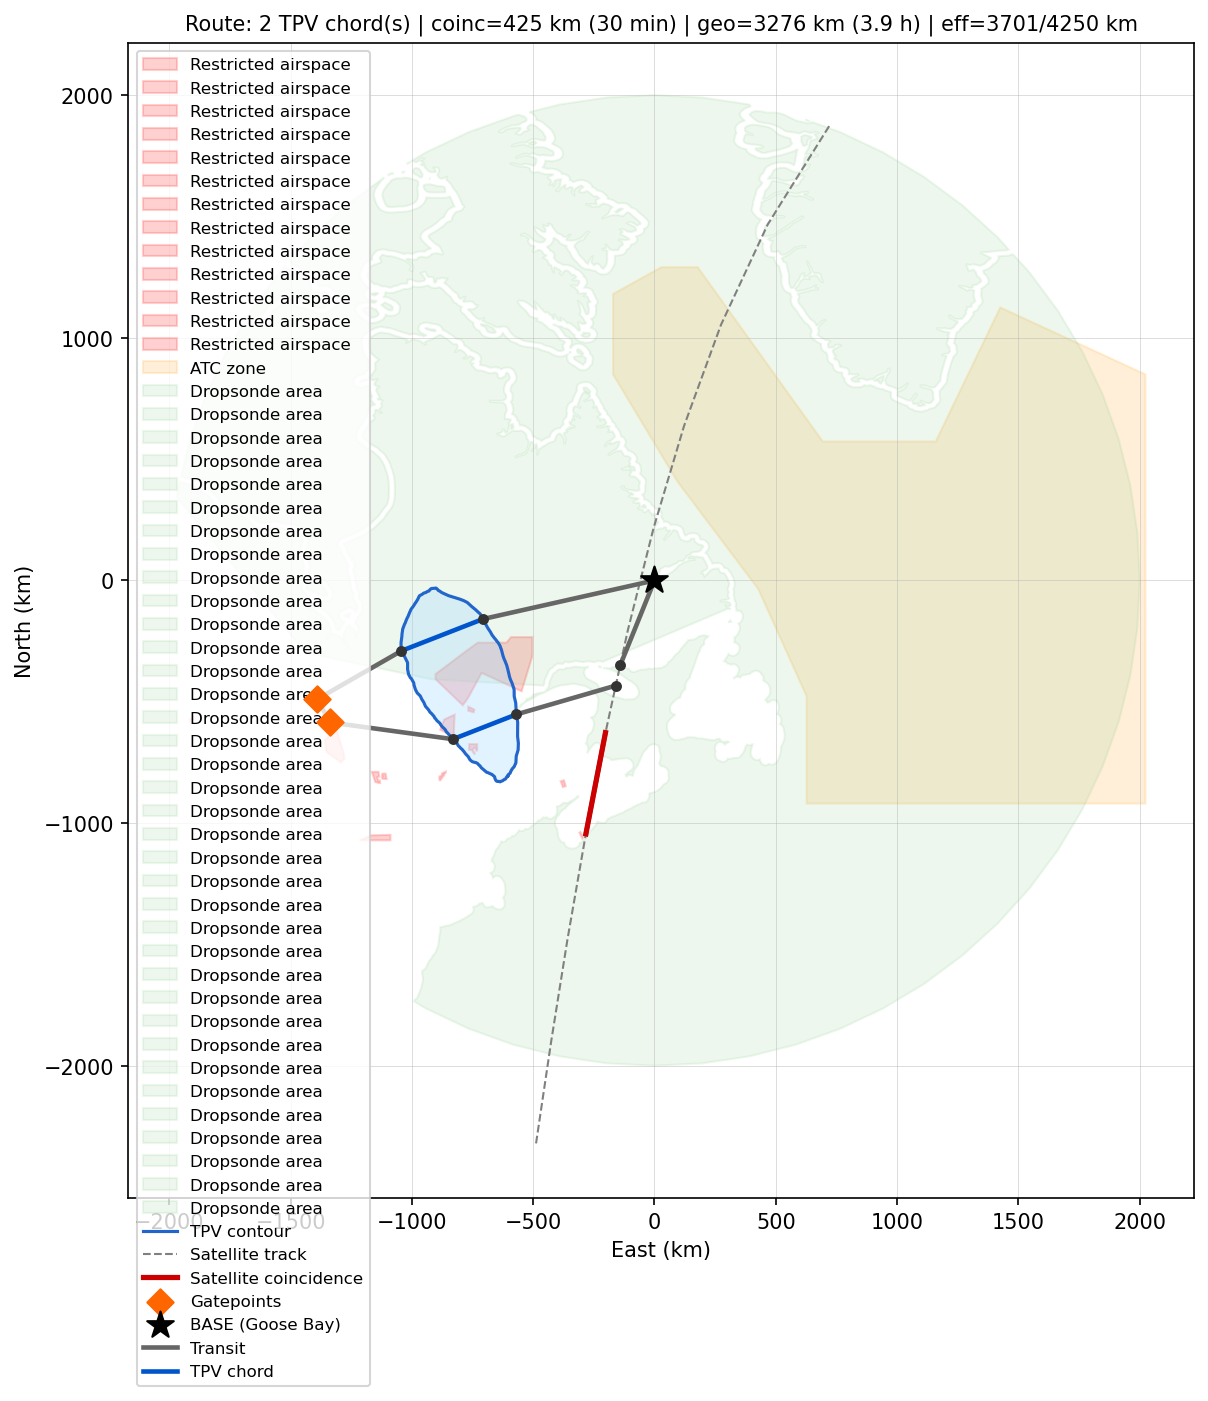
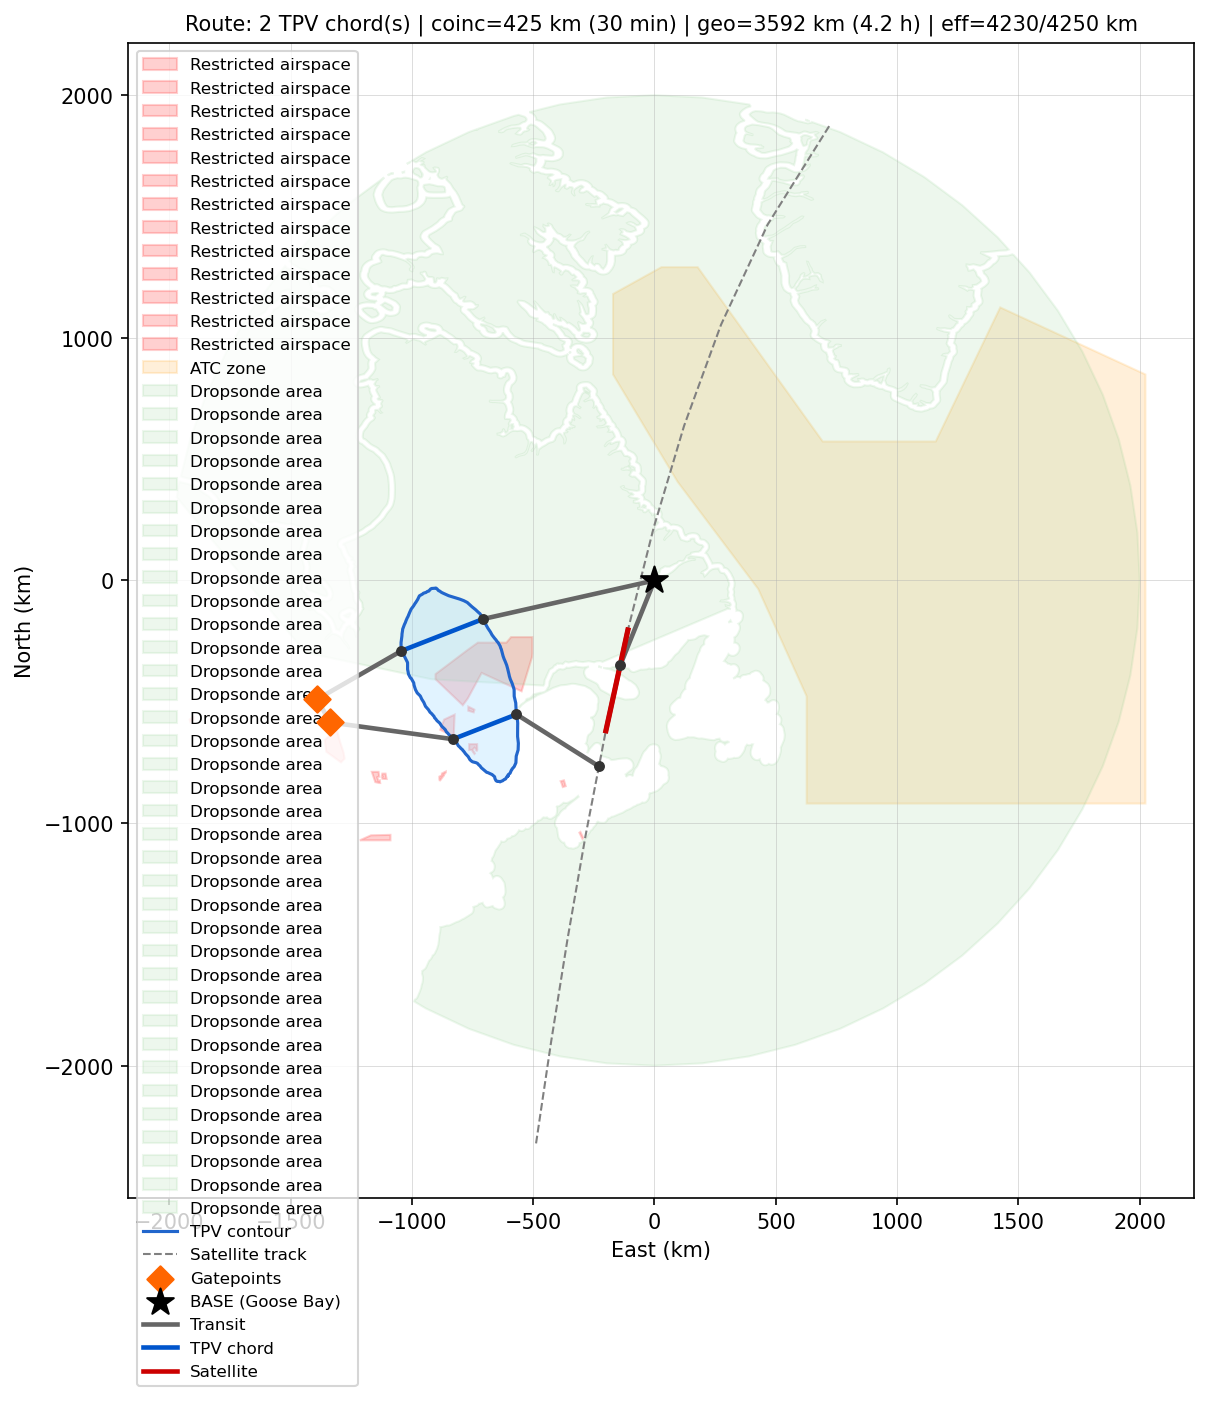
Fix Method A: rebuild full route for each extended satellite arc
Previously Method A only checked budget_remaining without recomputing
the transit from the new exit point back to BASE or the turn count.
This caused severely wrong results (showed 549 km budget remaining,
but the true remaining after correct rebuild is only 20 km).

Fixes:
- find_best_route_field now returns best_stop_list
- extend_satellite_arc: fix np.zeros(2) -> base bug; each longer arc
  calls build_route_field so exit transit and turns are recomputed
- main() uses extend_satellite_arc instead of the simplified check

Correct result: geo=3592 km (4.23 h), eff=4230/4250 km, 6 turns,
coinc=425 km (30 min), dropsonde=1800 km (127 min)

diff --git a/plan_route_field.py b/plan_route_field.py
@@ -408,6 +408,7 @@ def find_best_route_field(base, chords, gatepoints_km, sat_cands,
 
     best = None; best_n = 0; best_coinc = -1.0; best_total = 1e18
     best_sat_entry_key = None
+    best_stop_list = None
 
     for n in range(min(len(chords), max_n), 0, -1):
         found = False
@@ -450,8 +451,9 @@ def find_best_route_field(base, chords, gatepoints_km, sat_cands,
                     approx += rc
                     if approx > TOTAL_BUDGET_KM: continue
 
+                    ordered = [all_stops[k] for k in perm]
                     r = build_route_field(
-                        base, [all_stops[k] for k in perm], T_sat_h,
+                        base, ordered, T_sat_h,
                         full_nodes, sp_full, prev_full, node_key, n_static,
                         TOTAL_BUDGET_KM, AIRCRAFT_SPEED_KMH, TURN_PENALTY_KM)
                     if r and r['feasible']:
@@ -463,18 +465,23 @@ def find_best_route_field(base, chords, gatepoints_km, sat_cands,
                             best_total = r['total_dist']
                             best = r; best_n = n; found = True
                             best_sat_entry_key = tuple(np.round(pa, 3))
+                            best_stop_list = ordered
         if found:
-            return best, best_n, best_sat_entry_key
-    return None, 0, None
+            return best, best_n, best_sat_entry_key, best_stop_list
+    return None, 0, None, None
 
 
 # ── Method A: post-hoc satellite arc extension ────────────────────────────────
 def extend_satellite_arc(best_route, best_stop_list, sat_arc_variants,
-                         sat_entry_key, T_sat_h,
+                         sat_entry_key, T_sat_h, base,
                          full_nodes, sp_full, prev_full, node_key, n_static,
                          TOTAL_BUDGET_KM, AIRCRAFT_SPEED_KMH, TURN_PENALTY_KM):
-    """Replace the satellite stop in best_stop_list with longer arcs until budget is exceeded.
-    Returns the best (route, arc_km) — longest feasible coincidence.
+    """Replace the satellite stop in best_stop_list with longer arcs.
+
+    For each longer arc variant from the same entry point, rebuilds the full
+    route using build_route_field so that the new exit transit and turn
+    penalties are correctly accounted for.
+    Returns (best_route, best_arc_km).
     """
     variants = sat_arc_variants.get(sat_entry_key, [])
     if len(variants) <= 1:
@@ -483,17 +490,16 @@ def extend_satellite_arc(best_route, best_stop_list, sat_arc_variants,
     best_r   = best_route
     best_arc = best_route['coinc_dist']
 
-    # Find which stop is the satellite stop
     sat_idx = next((i for i, s in enumerate(best_stop_list) if s['type'] == 'sat'), None)
     if sat_idx is None:
         return best_route, best_arc
 
     for pb_ext, arc_km in variants:
         if arc_km <= best_arc + 1e-6:
-            continue  # already covered by current best
+            continue
         pb_key = tuple(np.round(pb_ext, 3))
         if pb_key not in node_key:
-            continue  # exit point not in graph (shouldn't happen)
+            continue
 
         new_stops = list(best_stop_list)
         new_stops[sat_idx] = {
@@ -505,7 +511,7 @@ def extend_satellite_arc(best_route, best_stop_list, sat_arc_variants,
             'idx_b': node_key[pb_key],
         }
         r = build_route_field(
-            np.zeros(2), new_stops, T_sat_h,
+            base, new_stops, T_sat_h,
             full_nodes, sp_full, prev_full, node_key, n_static,
             TOTAL_BUDGET_KM, AIRCRAFT_SPEED_KMH, TURN_PENALTY_KM)
         if r and r['feasible']:
@@ -612,7 +618,7 @@ def main():
     # ── Search ────────────────────────────────────────────────────────────────
     print(f'\nSearching (max_n={MAX_JOINT_N})...')
     t0 = time.time()
-    best_r, best_n, sat_entry_key = find_best_route_field(
+    best_r, best_n, sat_entry_key, best_stop_list = find_best_route_field(
         BASE, chords, gatepoints_km, sat_filtered, T_SAT_H,
         full_nodes, sp_full, prev_full, node_key, n_static,
         TOTAL_BUD, AC_SPEED, TURN_PEN,
@@ -625,34 +631,17 @@ def main():
         return
 
     # ── Method A: extend satellite arc post-hoc ───────────────────────────────
-    # Reconstruct the stop list for the best route to pass to extend_satellite_arc.
-    # Rather than storing the full stop list during search (complex), we do a single
-    # re-build of the best route and try longer arcs directly.
+    # For each longer arc variant from the same entry, rebuild the full route so
+    # that the new exit transit distance and turn penalties are correctly computed.
     arc_km_min = best_r['coinc_dist']
-    arc_km_ext = arc_km_min
-
-    if sat_entry_key and sat_entry_key in cache['sat_arc_variants']:
-        variants = cache['sat_arc_variants'][sat_entry_key]
-        # Find entry point and current exit
-        pa_best = np.array(sat_entry_key)
-        # Try each longer arc from this entry
-        for pb_ext, arc_km in variants:
-            if arc_km <= arc_km_ext + 1e-6:
-                continue
-            pb_key = tuple(np.round(pb_ext, 3))
-            if pb_key not in node_key:
-                continue
-            # Quick budget check: can this arc even fit?
-            budget_spare = best_r['budget_remaining'] - (arc_km - arc_km_min)
-            if budget_spare < -TURN_PEN:  # rough check; turn count might change
-                break
-            # For simplicity: swap the sat stop in the best route's waypoint budget
-            # A full re-search with this arc would be slow; instead use budget_remaining
-            # to confirm feasibility (conservative: doesn't account for transit change).
-            if best_r['budget_remaining'] >= arc_km - arc_km_min:
-                arc_km_ext = arc_km
-            else:
-                break
+    print(f'Method A: extending satellite arc from {arc_km_min:.0f} km...')
+    t0 = time.time()
+    best_r, arc_km_ext = extend_satellite_arc(
+        best_r, best_stop_list, cache['sat_arc_variants'],
+        sat_entry_key, T_SAT_H, BASE,
+        full_nodes, sp_full, prev_full, node_key, n_static,
+        TOTAL_BUD, AC_SPEED, TURN_PEN)
+    print(f'Method A done: {arc_km_min:.0f} -> {arc_km_ext:.0f} km  [{time.time()-t0:.1f}s]')
 
     # ── Results ───────────────────────────────────────────────────────────────
     t_total = time.time() - t_start